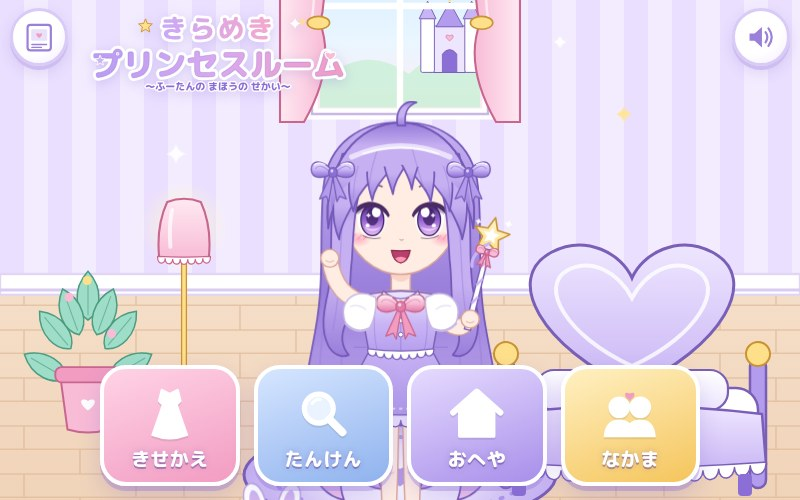
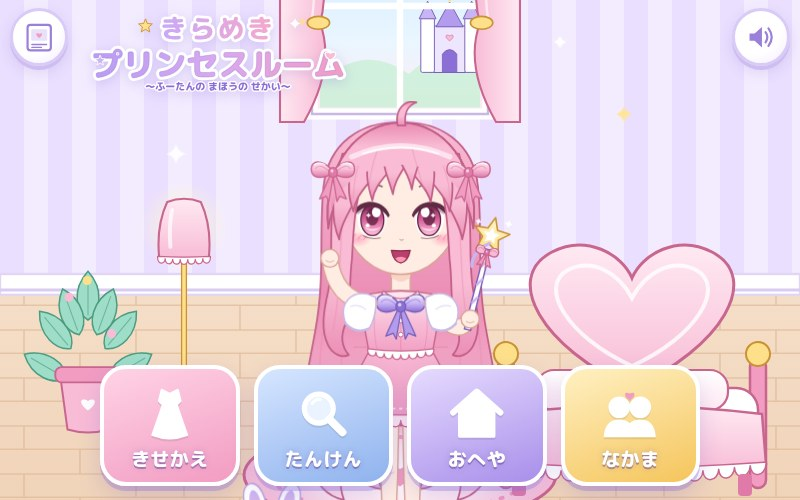
きらめきプリンセスルーム: ふーたんを ピンクメインに（なかまの もも→すみれ を ラベンダーに）
Claude-Session: https://claude.ai/code/session_01SaE1LQnppyYi5fWJAfkhL7

diff --git a/kirameki-princess/js/main.js b/kirameki-princess/js/main.js
@@ -17,7 +17,7 @@
   const KEY = 'kirameki-princess-room-v1';
   function freshSave() {
     return {
-      version: 1,
+      version: 2,
       character: { equippedItems: { ...D.DEFAULT_OUTFIT }, savedOutfits: [] },
       room: JSON.parse(JSON.stringify(D.DEFAULT_ROOM)),
       collection: { discoveredItemIds: [], unlockedCharacterIds: ['momo'] },
@@ -36,6 +36,13 @@
     for (const k in f.friends) if (G.friends[k] == null) G.friends[k] = f.friends[k];
   } catch (e) {
     G = freshSave();
+  }
+  if (G.version < 2) {
+    // ふーたんの いろを ピンクに かえた ときの ひっこし（さいしょの ままなら あたらしい いろに）
+    const OLD = { tops: 'blouse-lav', skirt: 'frill-lav', onepiece: null, shoes: 'pumps-lav', hair: 'hairbows-lav', ribbon: 'chestbow-pink', magic: 'starwand-lav' };
+    if (JSON.stringify(G.character.equippedItems) === JSON.stringify(OLD)) G.character.equippedItems = { ...D.DEFAULT_OUTFIT };
+    G.room.furniture.forEach((f) => { if (f.instanceId === 'f3' && f.color === 'lav') f.color = 'pink'; if (f.instanceId === 'f2' && f.color === 'lav') f.color = 'pink'; });
+    G.version = 2;
   }
   S.on = G.sound !== false;
   let saveTimer = 0;
@@ -68,8 +75,9 @@
     return o;
   }
   const CHAR_VB = '0 -30 400 680';
+  const FUU = { hairStyle: 'long', hairColor: 'pink', eyeColor: 'pink' };
   function fuutanOpt(extra = {}) {
-    return { hairStyle: 'long', hairColor: 'lav', eyeColor: 'lav', outfit: toDraw(G.character.equippedItems), ...extra };
+    return { ...FUU, outfit: toDraw(G.character.equippedItems), ...extra };
   }
   function friendOpt(fid, extra = {}) {
     if (fid === 'fuutan') return fuutanOpt(extra);
@@ -307,7 +315,7 @@
       `<path d="M120,700 L120,190 A180,180 0 0,1 480,190 L480,700Z" fill="url(#${id}m)" stroke="#fff" stroke-width="14"/>` +
       `<path d="M120,700 L120,190 A180,180 0 0,1 480,190 L480,700Z" fill="none" stroke="#E2D6F6" stroke-width="4"/>` +
       `<path d="M150,140 L190,100 M140,190 L230,100" stroke="#fff" stroke-width="10" stroke-linecap="round" opacity=".8"/>` +
-      KP.drawCurtains(70, 40, 460, 560, KP.PAL.lav) +
+      KP.drawCurtains(70, 40, 460, 560, KP.PAL.pink) +
       `<ellipse cx="300" cy="660" rx="200" ry="34" fill="#E9DEFF"/><ellipse cx="300" cy="656" rx="160" ry="24" fill="#F6F0FF"/>` +
       KP.sparkle(90, 250, 10, '#fff') + KP.sparkle(520, 300, 12, '#fff') + KP.star(540, 520, 8, '#FFE59A') + KP.heart(70, 470, 8, '#F8BCD6');
   }
@@ -369,7 +377,7 @@
       if (dressTab === 'saved') {
         if (!G.character.savedOutfits.length) return `<div class="empty-msg" style="grid-column:1/-1">「ほぞん」を おすと ここに はいるよ</div>`;
         return G.character.savedOutfits.map((o, i) =>
-          `<button class="cell" data-saved="${i}">${svg('40 -20 320 660', KP.drawChar({ hairStyle: 'long', hairColor: 'lav', eyeColor: 'lav', outfit: toDraw(o.equippedItems) }))}</button>`).join('');
+          `<button class="cell" data-saved="${i}">${svg('40 -20 320 660', KP.drawChar({ ...FUU, outfit: toDraw(o.equippedItems) }))}</button>`).join('');
       }
       const list = D.ITEM_LIST.filter((i) => i.slot === dressTab && owned(i.id));
       const locked = D.ITEM_LIST.filter((i) => i.slot === dressTab && !owned(i.id)).length;
@@ -1144,7 +1152,7 @@
       return svg('0 0 400 500',
         `<defs>${KP.rg(id + 'g', [[0, '#FFFFFF'], [0.5, '#EEE6FF'], [1, '#C9B5F5']], 0.5, 0.45, 0.7)}</defs><rect width="400" height="500" fill="url(#${id}g)"/>` +
         [[40, 60], [350, 90], [60, 400], [340, 380], [200, 30]].map(([x, y], i) => (i % 2 ? KP.star(x, y, 12, '#FFE59A') : KP.sparkle(x, y, 14, '#fff'))).join('') +
-        `<g transform="translate(70 0) scale(0.66)">${KP.drawChar({ hairStyle: 'long', hairColor: 'lav', eyeColor: 'lav', outfit: toDraw(a.snapshot), pose: 'cheer', expr: 'joy' })}</g>` +
+        `<g transform="translate(70 0) scale(0.66)">${KP.drawChar({ ...FUU, outfit: toDraw(a.snapshot), pose: 'cheer', expr: 'joy' })}</g>` +
         `<g transform="translate(14 360) scale(0.6)">${KP.drawBunny('happy')}</g>`);
     }
     if (a.type === 'room') {
@@ -1155,7 +1163,7 @@
     if (s.tea) o += `<g transform="translate(368 742) scale(1.2)">${KP.FURN.teatable.draw(KP.PAL.pink, KP.uid('t'))}</g>`;
     o += [...s.chars].sort((p, q) => p.y - q.y).map((c) => {
       if (c.id === 'pyonta') return castG('pyonta', c, { expr: c.expr || 'happy', anim: 'x' });
-      const base = c.id === 'fuutan' ? { hairStyle: 'long', hairColor: 'lav', eyeColor: 'lav' } : D.FRIENDS[c.id];
+      const base = c.id === 'fuutan' ? FUU : D.FRIENDS[c.id];
       const sc = 0.62;
       return `<g transform="translate(${c.x - 124} ${c.y - 640 * sc}) scale(${sc})">${KP.drawChar({ hairStyle: base.hairStyle, hairColor: base.hairColor, eyeColor: base.eyeColor, outfit: toDraw(c.outfit || {}), pose: c.pose || 'stand', expr: c.expr || 'smile' })}</g>`;
     }).join('');

diff --git a/kirameki-princess/js/data.js b/kirameki-princess/js/data.js
@@ -63,8 +63,8 @@
   });
 
   const DEFAULT_OUTFIT = {
-    tops: 'blouse-lav', skirt: 'frill-lav', onepiece: null, shoes: 'pumps-lav',
-    hair: 'hairbows-lav', ribbon: 'chestbow-pink', magic: 'starwand-lav',
+    tops: 'blouse-pink', skirt: 'frill-pink', onepiece: null, shoes: 'pumps-pink',
+    hair: 'hairbows-pink', ribbon: 'chestbow-lav', magic: 'starwand-lav',
   };
 
   // かぐ
@@ -90,9 +90,9 @@
   // なかま
   const FRIENDS = {
     momo: {
-      name: 'もも', hairStyle: 'twin', hairColor: 'pink', eyeColor: 'pink',
-      outfit: { onepiece: 'princess-pink', shoes: 'pumps-pink', hair: 'bigbow-pink', ribbon: 'brooch-pink', magic: 'heartwand-pink' },
-      likes: 'pink',
+      name: 'すみれ', hairStyle: 'twin', hairColor: 'lav', eyeColor: 'lav',
+      outfit: { onepiece: 'princess-lav', shoes: 'pumps-lav', hair: 'bigbow-pink', ribbon: 'brooch-pink', magic: 'bunnywand-lav' },
+      likes: 'lav',
     },
     mizuki: {
       name: 'みずき', hairStyle: 'bob', hairColor: 'blue', eyeColor: 'blue', hidden: 1,
@@ -126,8 +126,8 @@
     wallpaperId: 'stripe', floorId: 'wood',
     furniture: [
       { instanceId: 'f1', furnitureId: 'stardeco', x: 230, y: 250, rotation: 0, color: 'yellow' },
-      { instanceId: 'f2', furnitureId: 'rug', x: 500, y: 940, rotation: 0, color: 'lav' },
-      { instanceId: 'f3', furnitureId: 'bed', x: 790, y: 900, rotation: 0, color: 'lav' },
+      { instanceId: 'f2', furnitureId: 'rug', x: 500, y: 940, rotation: 0, color: 'pink' },
+      { instanceId: 'f3', furnitureId: 'bed', x: 790, y: 900, rotation: 0, color: 'pink' },
       { instanceId: 'f4', furnitureId: 'plant', x: 110, y: 820, rotation: 0, color: 'pink' },
       { instanceId: 'f5', furnitureId: 'light', x: 230, y: 760, rotation: 0, color: 'pink' },
     ],

diff --git a/kirameki-princess/js/art-char.js b/kirameki-princess/js/art-char.js
@@ -610,8 +610,8 @@
   };
   KP.EYES = EYES;
   const HAIRS = {
-    lav: { base: '#C7B0F2', light: '#F1EAFF', dark: '#9A7FDB', deep: '#7D61C4', line: '#7458B8', tip: '#F3C8EC' },
-    pink: { base: '#F9BCD4', light: '#FFEAF2', dark: '#EC8FB6', deep: '#D7709C', line: '#C25E88', tie: '#FFE08A' },
+    lav: { base: '#C7B0F2', light: '#F1EAFF', dark: '#9A7FDB', deep: '#7D61C4', line: '#7458B8', tip: '#F3C8EC', tie: '#F8BCD6' },
+    pink: { base: '#F9BCD4', light: '#FFEAF2', dark: '#EC8FB6', deep: '#D7709C', line: '#C25E88', tie: '#FFE08A', tip: '#FFE3EF' },
     blue: { base: '#AFCBF6', light: '#EAF3FF', dark: '#7FA4E6', deep: '#6188D0', line: '#5576BC', tie: '#FFE08A' },
     yellow: { base: '#FFE39A', light: '#FFF8DE', dark: '#F5C55C', deep: '#E2A93C', line: '#C48E2C', tie: '#F8BCD6' },
     mint: { base: '#B4E8D6', light: '#ECFCF6', dark: '#7FCDB2', deep: '#5CB396', line: '#4C9C82', tie: '#F8BCD6' },

diff --git a/kirameki-princess/css/style.css b/kirameki-princess/css/style.css
@@ -166,7 +166,7 @@ svg { display: block; }
 .cell.empty svg { opacity: .5; }
 
 /* ---- へんしん ---- */
-.henshin-stage { background: radial-gradient(ellipse at 50% 55%, #FFFFFF 0%, #E9DEFF 25%, #A98BEA 60%, #5E4AA8 100%); }
+.henshin-stage { background: radial-gradient(ellipse at 50% 55%, #FFFFFF 0%, #FFE3EF 25%, #E58FBE 60%, #8E5BB8 100%); }
 .henshin-stage .stagebg { position: absolute; inset: 0; }
 .henshin-stage .stagebg svg { width: 100%; height: 100%; }
 .hs-char { position: absolute; left: 50%; top: 7%; height: 70%; transform: translateX(-50%); aspect-ratio: 400 / 680; max-width: 92vw; }

diff --git a/README.md b/README.md
@@ -27,7 +27,7 @@
 ├── .nojekyll               # Jekyll 処理を無効化（ファイルをそのまま配信）
 ├── README.md
 ├── kirameki-princess/
-│   ├── index.html          # きらめきプリンセスルーム（設計書どおりの 5歳向け きせかえ・へんしん・たんけん・おへやづくり・なかま・アルバム。しゅじんこうは ふーたん、あいぼうは うさぎの ぴょんた。え は すべて SVG で かいているので どの がめんでも くっきり。いしょう 40てん（7カテゴリ・いろちがい）、へんしん えんしゅつ、おにわ／おうちの たんけん（かくしばしょは まいかい かわる・12こ はっけん）、かぐ 15しゅ の はいち・いどう・くるっ・いろがえ・かべがみ／ゆか、なかま 3にん の ごっこあそび（おしゃべり・おちゃかい・ファッションショー・しゃしん）。じどうほぞんは localStorage、こうかおんは Web Audio）
+│   ├── index.html          # きらめきプリンセスルーム（設計書どおりの 5歳向け きせかえ・へんしん・たんけん・おへやづくり・なかま・アルバム。しゅじんこうは ピンクの ふーたん、あいぼうは うさぎの ぴょんた。え は すべて SVG で かいているので どの がめんでも くっきり。いしょう 40てん（7カテゴリ・いろちがい）、へんしん えんしゅつ、おにわ／おうちの たんけん（かくしばしょは まいかい かわる・12こ はっけん）、かぐ 15しゅ の はいち・いどう・くるっ・いろがえ・かべがみ／ゆか、なかま 3にん（すみれ・みずき・レモン）の ごっこあそび（おしゃべり・おちゃかい・ファッションショー・しゃしん）。じどうほぞんは localStorage、こうかおんは Web Audio）
 │   ├── css/style.css
 │   └── js/                 # art-char（ふーたん・なかま・いしょうパーツ）・art-world（ぴょんた・かぐ・へや・アイコン）・art-scenes（たんけんの ばしょ）・data（アイテム定義）・sound・main（がめん）
 ├── magire-alien/
